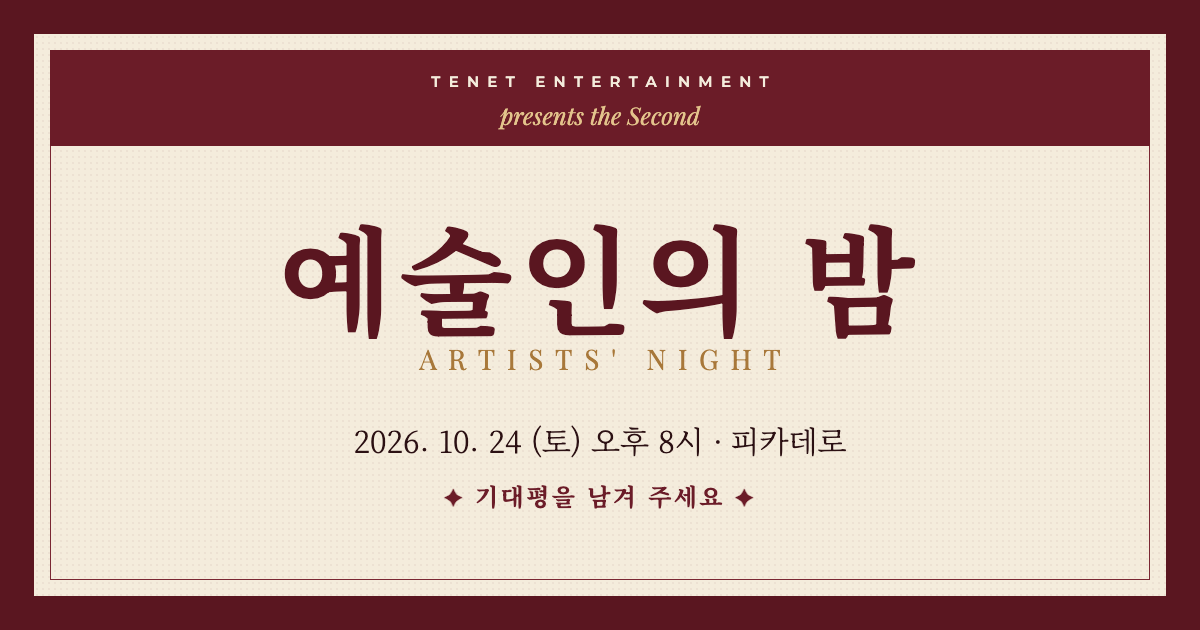
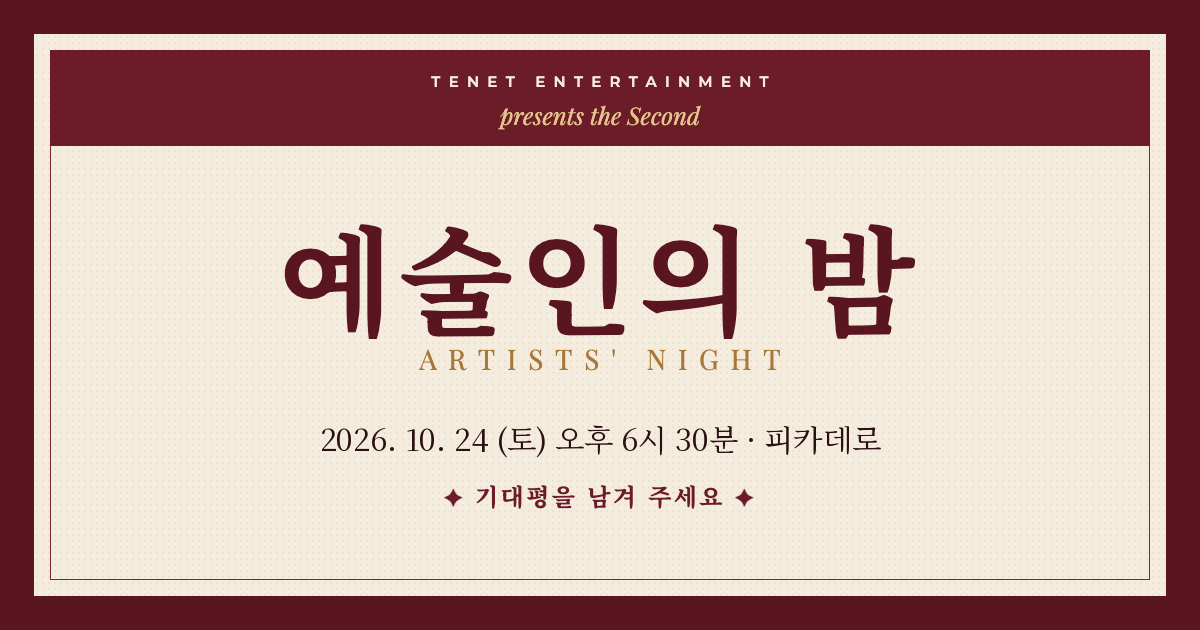
Change start time to 6:30 PM
Claude-Session: https://claude.ai/code/session_01LJxZao3UDSsfHCutx3zzeD

Changed region(s): [[0.2775, 0.6635, 0.74, 0.7238]]

diff --git a/index.html b/index.html
@@ -4,10 +4,10 @@
 <meta charset="utf-8">
 <meta name="viewport" content="width=device-width,initial-scale=1,viewport-fit=cover">
 <title>테넷 제2회 예술인의 밤</title>
-<meta name="description" content="10월 24일(토) 오후 8시 · 피카데로 파티룸. 기대평을 남겨 주세요.">
+<meta name="description" content="10월 24일(토) 오후 6시 30분 · 피카데로 파티룸. 기대평을 남겨 주세요.">
 <meta property="og:type" content="website">
 <meta property="og:title" content="테넷 엔터테인먼트 제2회 예술인의 밤">
-<meta property="og:description" content="10.24(토) 오후 8시 · 피카데로 파티룸 — 기대평을 남겨 주세요">
+<meta property="og:description" content="10.24(토) 오후 6시 30분 · 피카데로 파티룸 — 기대평을 남겨 주세요">
 <meta property="og:image" content="https://what1244-art.github.io/tenet-artists-night/og.png">
 <meta property="og:url" content="https://what1244-art.github.io/tenet-artists-night/">
 <meta name="twitter:card" content="summary_large_image">
@@ -96,7 +96,7 @@ h1{text-align:center;font-size:clamp(46px,13vw,68px);font-weight:700;color:var(-
   <div class="rule"></div>
   <div class="info">
    <div class="cell"><div class="k">DATE</div><div class="v"><em>2026. 10. 24</em><span>토요일 저녁</span></div></div>
-   <div class="cell"><div class="k">TIME</div><div class="v">오후 8시<span>8시까지 모두 모여 주세요<br>귀가는 언제든 자유롭게<br>매트 구비 · 오전 10시까지 휴식 가능</span></div></div>
+   <div class="cell"><div class="k">TIME</div><div class="v">오후 6시 30분<span>6시 30분까지 모두 모여 주세요<br>귀가는 언제든 자유롭게<br>매트 구비 · 오전 10시까지 휴식 가능</span></div></div>
    <div class="cell full"><div class="k">VENUE</div><div class="v">피카데로 파티룸<span>서울 노원구 공릉로43길 19 2층, B1</span></div>
     <div class="maps">
      <a href="https://map.naver.com/p/search/%EC%84%9C%EC%9A%B8%20%EB%85%B8%EC%9B%90%EA%B5%AC%20%EA%B3%B5%EB%A6%89%EB%A1%9C43%EA%B8%B8%2019" target="_blank" rel="noopener">네이버지도</a>
